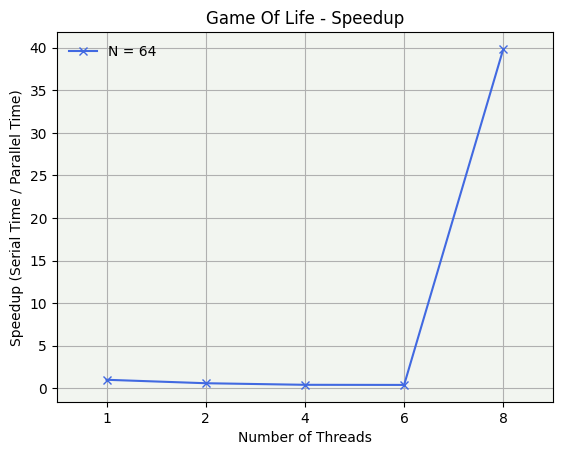
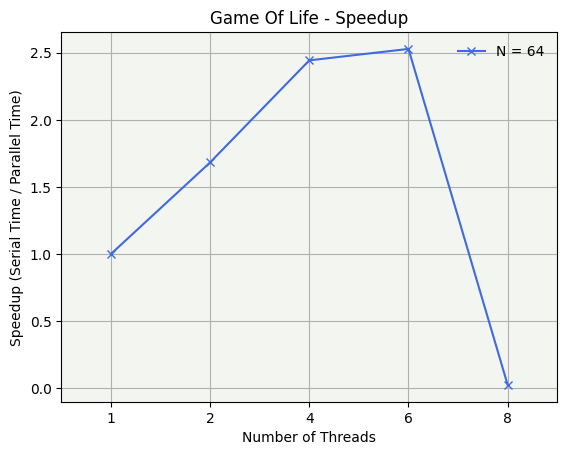
Fix speedup plots mistake

diff --git a/1st_exec/src/Game_Of_Life/plot_metrics_single.py b/1st_exec/src/Game_Of_Life/plot_metrics_single.py
@@ -36,7 +36,7 @@ with open(outFile) as fp:
         line = fp.readline()
 
 for key, val in times.items():
-    speedups[key] = [x/val[0] for x in val]
+    speedups[key] = [val[0]/x for x in val]
 print ("times: ", times)
 print ("speedups: ", speedups)
 
